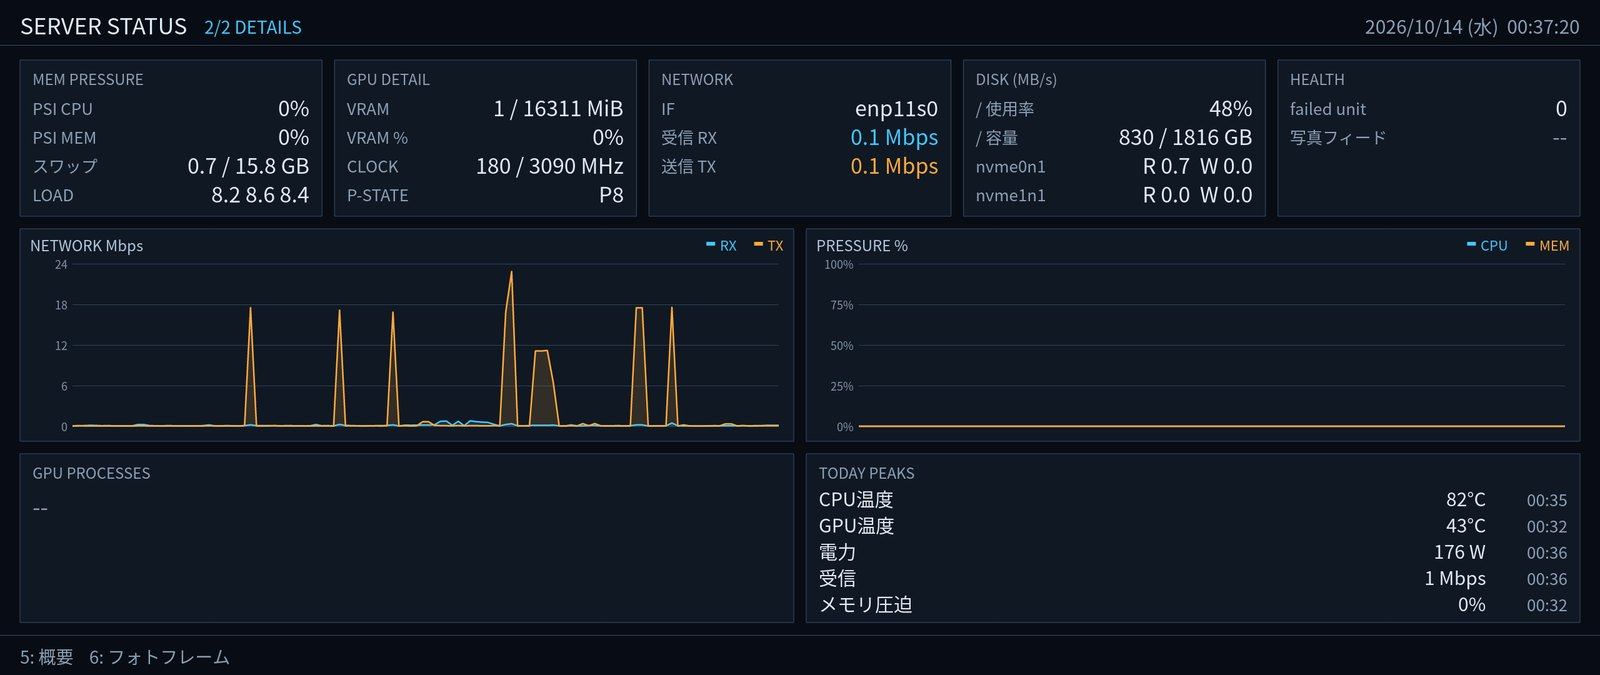
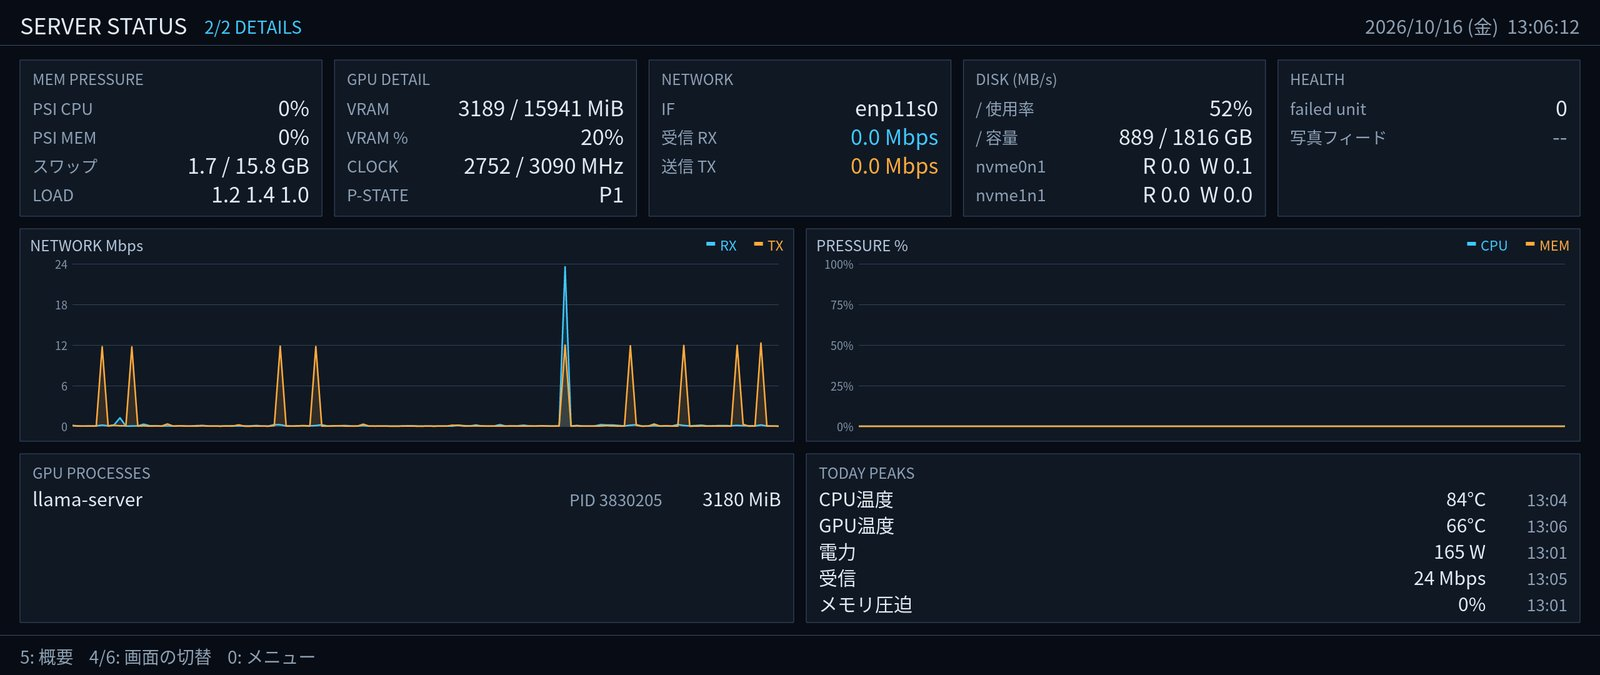
docs(site): retake the STATUS screenshots with the VRAM % chart
Captured with `miharashi png --live --seconds 300 --size 2560x1080`
while qwen3:4b-instruct was loaded on the RTX 5060 Ti, so the VRAM
chart shows a real load step. Resized to 1600x675 as before.

diff --git a/site/index.html b/site/index.html
@@ -38,8 +38,8 @@
     <section class="shell section-block" id="screens" aria-labelledby="screens-title">
       <div class="section-heading"><div><p class="eyebrow">01 / Screens</p><h2 id="screens-title">サーバーの状態と、<br class="mobile-only">写真のあいだを行き来する。</h2></div><p class="section-aside">4 / 6 で画面を切替、<br>5 でページを切替。</p></div>
       <figure class="shot shot-main">
-        <img src="images/status.jpg" width="1600" height="675" alt="SERVER STATUS の OVERVIEW。CPU・GPU・メモリ・SSD 温度・ファンの現在値と、使用率と電力のグラフ、今日の電力量">
-        <figcaption><span><strong>STATUS / OVERVIEW</strong> CPU と 2 枚の GPU の使用率・温度・電力、メモリ、SSD 温度。下に使用率と電力のグラフ、今日の電力量と最高温度。</span><span>実機の値</span></figcaption>
+        <img src="images/status.jpg" width="1600" height="675" alt="SERVER STATUS の OVERVIEW。CPU・GPU・メモリ・SSD 温度・ファンの現在値と、使用率・GPU ごとの VRAM 使用率・電力のグラフ、今日の電力量">
+        <figcaption><span><strong>STATUS / OVERVIEW</strong> CPU と 2 枚の GPU の使用率・温度・電力、メモリ、SSD 温度。下に使用率、GPU ごとの VRAM 使用率、電力のグラフ、今日の電力量と最高温度。</span><span>実機の値</span></figcaption>
       </figure>
       <div class="shot-grid">
         <figure class="shot">
